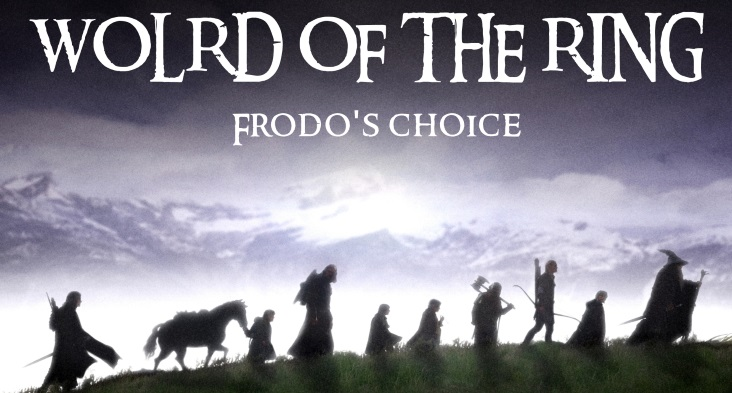
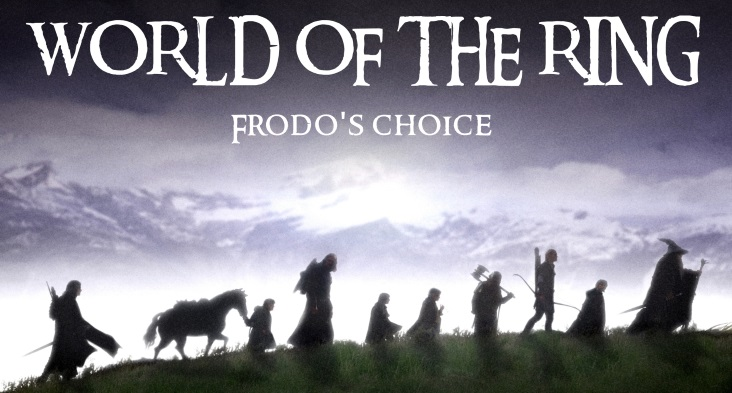
new image home page

diff --git a/src/wotr/Game.java b/src/wotr/Game.java
@@ -34,7 +34,7 @@ public class Game {
         currentPlayer = new Player();
         currentPlayer.setCurrentRoom(startRoom);
         this.window = window;
-        
+        printWelcome();
         
         
     }
@@ -120,7 +120,7 @@ public class Game {
      * Print out the opening message for the player.
      */
       private void printWelcome() {
-        window.txtpnPrompt.setText("Welcome to the Lord of the Ring: A Frodo's Journey. You are Frodo and Bilbo gave you a strange ring. Gandalf revealed that it is the One Ring, the most powerful ring which belongs to Sauron, the Lord of Mordor. You are Frodo Baggins of the Shire. You must bring the Ring to Mordor to destroy it into the flames of Orodruin, the volcano at the north east of the mordor, house of the evil Sauron. Our game is a basic survival game. You must explore Middle Earth in order to find your way to Orodruin. Their will be many foes and obstacles on your way. But you carry the Ring which grants you the ability to be invisible. You need to be careful, prepare yourself to commit your life.", "Welcome", JOptionPane.PLAIN_MESSAGE);
+        JOptionPane.showMessageDialog(null, "Welcome to the Lord of the Ring: A Frodo's Journey. You are Frodo and Bilbo gave you a strange ring. Gandalf revealed that it is the One Ring, the most powerful ring which belongs to Sauron, the Lord of Mordor. You are Frodo Baggins of the Shire. You must bring the Ring to Mordor to destroy it into the flames of Orodruin, the volcano at the north east of the mordor, house of the evil Sauron. Our game is a basic survival game. You must explore Middle Earth in order to find your way to Orodruin. Their will be many foes and obstacles on your way. But you carry the Ring which grants you the ability to be invisible. You need to be careful, prepare yourself to commit your life.", "Welcome", JOptionPane.PLAIN_MESSAGE);
     }
 
     
@@ -128,8 +128,6 @@ public class Game {
     public void win(){
     JOptionPane.showMessageDialog(null, "You dropped the Ring in the Mount Doom and you defeated Sauron and his armies. You accomplished your journey. Congratulations","Congratulations", JOptionPane.PLAIN_MESSAGE);
     }
-
-    
   
 
       

diff --git a/src/gui/Window.java b/src/gui/Window.java
@@ -138,9 +138,9 @@ public Window(){
 		
 		JPanel panelImage = new JPanel();
 		JLabel Image = new JLabel(new ImageIcon("src/gui/image/HomePage.jpg"));//Test image
-		panelImage.add(Image);
 		panelImage.setBorder(new MatteBorder(1, 1, 1, 1, (Color) new Color(0, 0, 0)));
 		panelImage.setBounds(12, 12, 732, 393);
+		panelImage.add(Image);
 		
 		panelLeft.add(panelImage);
 		panelImage.setLayout(new GridLayout(0, 1, 0, 0));
